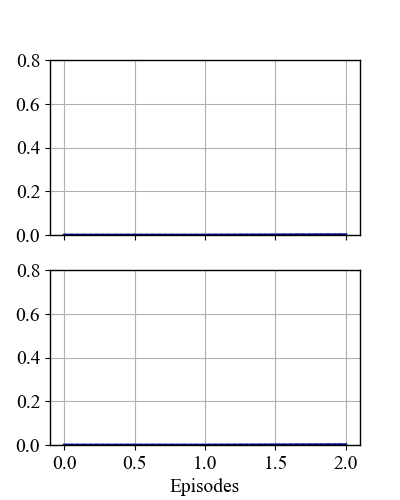
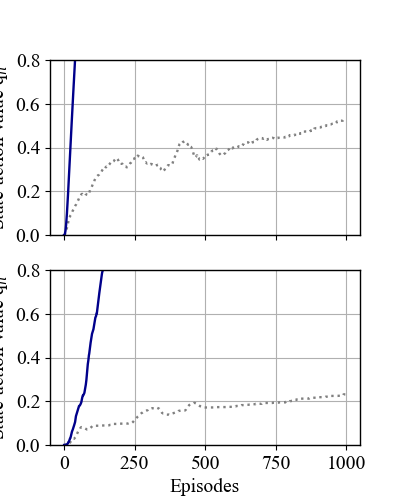
update 24032025

diff --git a/rl_grid_main_mp.py b/rl_grid_main_mp.py
@@ -18,8 +18,8 @@ def train_agent(agent_class, config, queue, agent_type):
     env = GridWorldEnv(config)
     agent = agent_class(config, env.actions)
 
-    q_max_hist = np.zeros((config.num_runs, config.num_episodes))
-    q_ae_hist = np.zeros((config.num_runs, config.num_episodes))
+    q_max_hist = np.zeros((config.num_runs, config.num_episodes))       # The maximum Q-Value of all non-optimal actions
+    q_opt_hist = np.zeros((config.num_runs, config.num_episodes))       # Q-Value of the optimal action  
 
     for run in tqdm(range(config.num_runs), desc=f"Training Runs ({agent_type})"):
         agent.reset(config, env.actions)
@@ -35,9 +35,9 @@ def train_agent(agent_class, config, queue, agent_type):
                 state = next_state
             
             q_max_hist[run, i] = max(agent.q_pi[env.init_state[0], env.init_state[1], a] for a in [0, 2, 3])
-            q_ae_hist[run, i] = agent.q_pi[env.init_state[0], env.init_state[1], 1]
+            q_opt_hist[run, i] = agent.q_pi[env.init_state[0], env.init_state[1], 1]
 
-    queue.put((agent_type, np.mean(q_max_hist, axis=0), np.mean(q_ae_hist, axis=0)))
+    queue.put((agent_type, np.mean(q_max_hist, axis=0), np.mean(q_opt_hist, axis=0)))       # Store the Q-values averaged over all runs
 
 def main():
     config = RLGridConfiguration()  
@@ -56,14 +56,14 @@ def main():
 
     results = {}
     for _ in agents:
-        agent_type, q_max_avg, q_ae_avg = queue.get()
-        results[agent_type] = (q_max_avg, q_ae_avg)
+        agent_type, q_max_avg, q_opt_avg = queue.get()          # q_max_avg: Maximum Q-Value of all non-optimal actions averaged over all runs
+        results[agent_type] = (q_max_avg, q_opt_avg)            # q_opt_avg: Q-Value of the optimal action averaged over all runs
 
     for p in processes:
         p.join()
 
     # Extract results and plot
-    plot_results(results["Q-Learning"][0], results["Q-Learning"][1], results["DoubleQ-Learning"][0], results["DoubleQ-Learning"][1])
+    plot_results(results)
 
 if __name__ == "__main__":
     main()

diff --git a/src/rl_grid_utils.py b/src/rl_grid_utils.py
@@ -5,8 +5,10 @@
 # > Utility functions for plotting the RL training results
 # ---------------------------------------------------------------------------------------------
 
-def plot_results(q_max_not_ae_avg, q_ae_avg):
+def plot_results(results):
     import matplotlib.pyplot as plt
+
+
 
     plt.rcParams.update({'font.size': 14})
     plt.rcParams["font.family"] = "serif"
@@ -17,15 +19,15 @@ def plot_results(q_max_not_ae_avg, q_ae_avg):
     
     axs[0].grid()
     axs[0].set_ylim([0, 0.8])
-    axs[0].plot(q_max_not_ae_avg, 'gray', linestyle="dotted", linewidth=1.7, label=' ')
-    axs[0].plot(q_ae_avg, 'darkblue', linewidth=1.7, label=' ')
-    axs[0].set_ylabel(' ')
+    axs[0].plot(results["Q-Learning"][0], 'gray', linestyle="dotted", linewidth=1.7, label='Non-optimal')
+    axs[0].plot(results["Q-Learning"][1], 'darkblue', linewidth=1.7, label='Optimal')
+    axs[0].set_ylabel('State-action value q$_{\pi}$')
 
     axs[1].grid()
     axs[1].set_ylim([0, 0.8])
-    axs[1].plot(q_max_not_ae_avg, 'gray', linestyle="dotted", linewidth=1.7, label=' ')
-    axs[1].plot(q_ae_avg, 'darkblue', linewidth=1.7, label=' ')
-    axs[1].set_ylabel(' ')
+    axs[1].plot(results["DoubleQ-Learning"][0], 'gray', linestyle="dotted", linewidth=1.7, label='Non-optimal')
+    axs[1].plot(results["DoubleQ-Learning"][1], 'darkblue', linewidth=1.7, label='Optimal')
+    axs[1].set_ylabel('State-action value q$_{\pi}$')
     axs[1].set_xlabel('Episodes')
 
     plt.savefig(f'plots/Q-Learning_Gridworld_plot.png')
